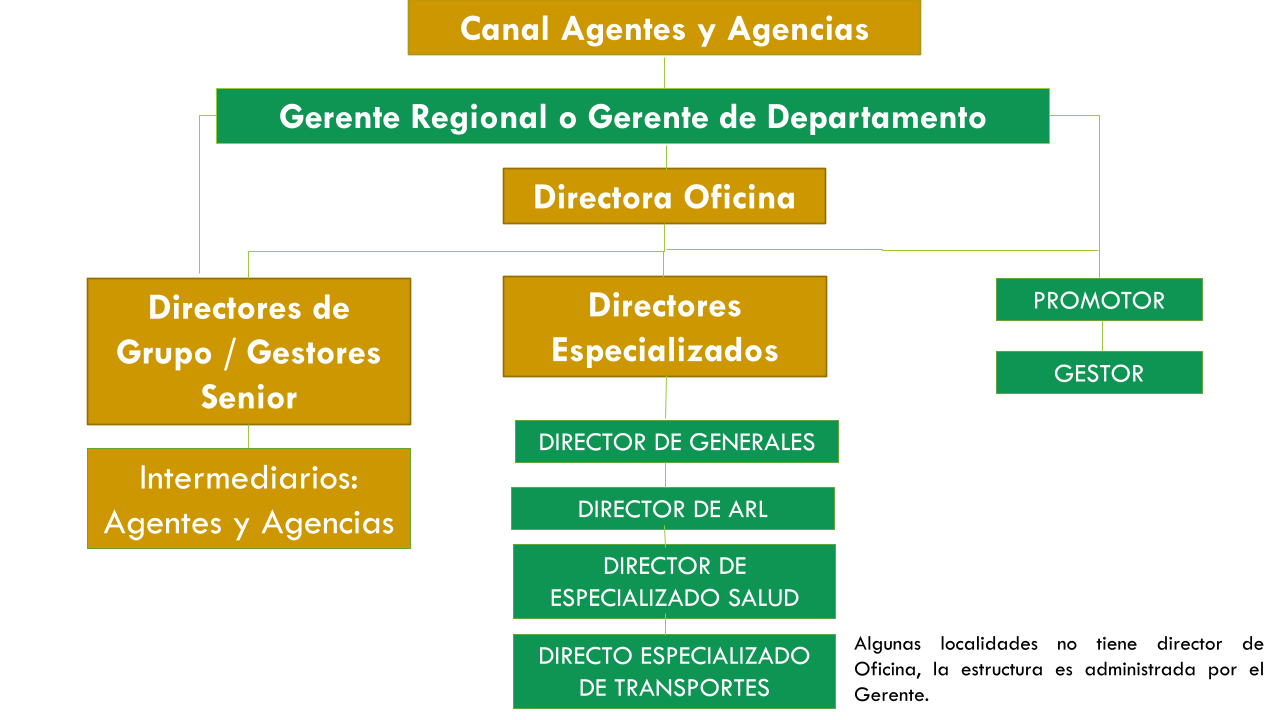
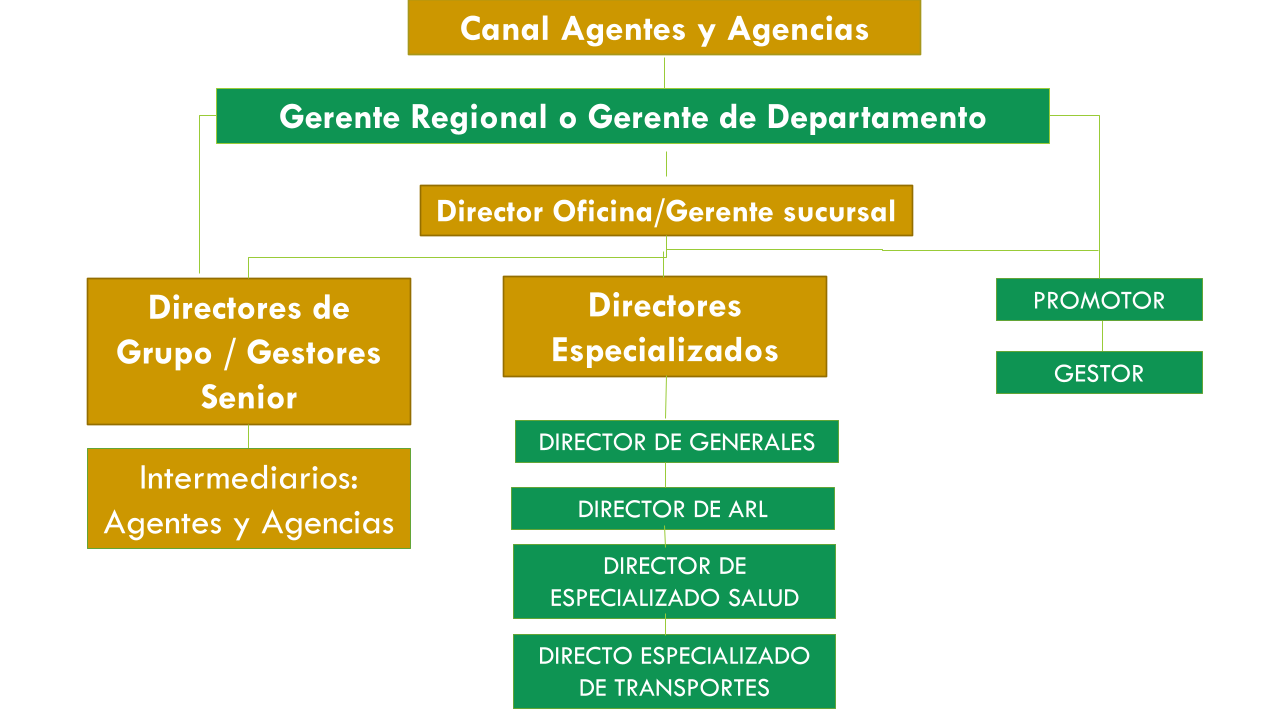
Actualiza estructura y nuevas imagenes

Changed region(s): [[0.3125, 0.2139, 0.7188, 0.3361], [0.6562, 0.8861, 1.0, 0.9778]]

diff --git a/src/components/Navbar.tsx b/src/components/Navbar.tsx
@@ -83,16 +83,16 @@ const searchItems = [
   { label: "Tablero Asesor A&A", type: "route", value: "/aa/tablero", category: "Tableros" },
   { label: "Estrategia Comercial", type: "route", value: "/aa/estrategia", category: "Tableros" },
   { label: "Registro Individual", type: "route", value: "/registro-individual", category: "Navegacion" },
-  { label: "Presentacion", type: "external", value: "https://docs.google.com/presentation/d/1J4sO92Z1T4rY_lnu64jDXRVT2eXG-HpyDZVXt6Xo6_s/edit#slide=id.p1", category: "Compensacion" },
-  { label: "Director Comercial", type: "external", value: "https://docs.google.com/presentation/d/1J4sO92Z1T4rY_lnu64jDXRVT2eXG-HpyDZVXt6Xo6_s/edit?slide=id.g3936da25e3f_0_503#slide=id.g3936da25e3f_0_503", category: "Compensacion" },
-  { label: "Director de Ventas y Relacionamiento", type: "external", value: "https://docs.google.com/presentation/d/1J4sO92Z1T4rY_lnu64jDXRVT2eXG-HpyDZVXt6Xo6_s/edit?slide=id.g3936da25e3f_0_485#slide=id.g3936da25e3f_0_485", category: "Compensacion" },
-  { label: "Asesor de Ventas", type: "external", value: "https://docs.google.com/presentation/d/1J4sO92Z1T4rY_lnu64jDXRVT2eXG-HpyDZVXt6Xo6_s/edit?slide=id.g39366069afe_0_10818#slide=id.g39366069afe_0_10818", category: "Compensacion" },
-  { label: "Relacionistas y Vinculadores", type: "external", value: "https://docs.google.com/presentation/d/1J4sO92Z1T4rY_lnu64jDXRVT2eXG-HpyDZVXt6Xo6_s/edit?slide=id.g3936da25e3f_0_0#slide=id.g3936da25e3f_0_0", category: "Compensacion" },
-  { label: "Convencion Nacional de Ventas", type: "external", value: "https://docs.google.com/presentation/d/1J4sO92Z1T4rY_lnu64jDXRVT2eXG-HpyDZVXt6Xo6_s/edit?slide=id.g3936da25e3f_0_511#slide=id.g3936da25e3f_0_511", category: "Compensacion" },
-  { label: "Compensacion A&A", type: "external", value: "https://docs.google.com/presentation/d/1DMWizD57AQ8RxwahXGy_jGSV_jvcZ8BYaqf8SG5f_TI/edit?slide=id.g396afe731a1_4_0#slide=id.g396afe731a1_4_0", category: "Compensacion" },
-  { label: "Sobre Comisiones Autos", type: "info", value: "#", category: "Compensacion" },
-  { label: "Sobre Comisiones vida", type: "info", value: "#", category: "Compensacion" },
-  { label: "Concurso Nacional de Ventas", type: "external", value: "https://docs.google.com/presentation/d/1DMWizD57AQ8RxwahXGy_jGSV_jvcZ8BYaqf8SG5f_TI/edit?slide=id.g396afe731a1_4_0#slide=id.g396afe731a1_4_0", category: "Compensacion" },
+  { label: "Presentacion", type: "external", value: "https://docs.google.com/presentation/d/1J4sO92Z1T4rY_lnu64jDXRVT2eXG-HpyDZVXt6Xo6_s/edit#slide=id.p1", category: "Compensación" },
+  { label: "Director Comercial", type: "external", value: "https://docs.google.com/presentation/d/1J4sO92Z1T4rY_lnu64jDXRVT2eXG-HpyDZVXt6Xo6_s/edit?slide=id.g3936da25e3f_0_503#slide=id.g3936da25e3f_0_503", category: "Compensación" },
+  { label: "Director de Ventas y Relacionamiento", type: "external", value: "https://docs.google.com/presentation/d/1J4sO92Z1T4rY_lnu64jDXRVT2eXG-HpyDZVXt6Xo6_s/edit?slide=id.g3936da25e3f_0_485#slide=id.g3936da25e3f_0_485", category: "Compensación" },
+  { label: "Asesor de Ventas", type: "external", value: "https://docs.google.com/presentation/d/1J4sO92Z1T4rY_lnu64jDXRVT2eXG-HpyDZVXt6Xo6_s/edit?slide=id.g39366069afe_0_10818#slide=id.g39366069afe_0_10818", category: "Compensación" },
+  { label: "Relacionistas y Vinculadores", type: "external", value: "https://docs.google.com/presentation/d/1J4sO92Z1T4rY_lnu64jDXRVT2eXG-HpyDZVXt6Xo6_s/edit?slide=id.g3936da25e3f_0_0#slide=id.g3936da25e3f_0_0", category: "Compensación" },
+  { label: "Convencion Nacional de Ventas", type: "external", value: "https://docs.google.com/presentation/d/1J4sO92Z1T4rY_lnu64jDXRVT2eXG-HpyDZVXt6Xo6_s/edit?slide=id.g3936da25e3f_0_511#slide=id.g3936da25e3f_0_511", category: "Compensación" },
+  { label: "Compensación A&A", type: "external", value: "https://docs.google.com/presentation/d/1DMWizD57AQ8RxwahXGy_jGSV_jvcZ8BYaqf8SG5f_TI/edit?slide=id.g396afe731a1_4_0#slide=id.g396afe731a1_4_0", category: "Compensación" },
+  { label: "Sobre Comisiones Autos", type: "info", value: "#", category: "Compensación" },
+  { label: "Sobre Comisiones vida", type: "info", value: "#", category: "Compensación" },
+  { label: "Concurso Nacional de Ventas", type: "external", value: "https://docs.google.com/presentation/d/1DMWizD57AQ8RxwahXGy_jGSV_jvcZ8BYaqf8SG5f_TI/edit?slide=id.g396afe731a1_4_0#slide=id.g396afe731a1_4_0", category: "Compensación" },
   { label: "Que es Power BI", type: "route", value: "/aprendamos-powerbi", category: "Aprendamos Power BI" },
   { label: "Como solicitar acceso", type: "route", value: "/aprendamos-powerbi", category: "Aprendamos Power BI" },
   { label: "Tips de navegacion", type: "route", value: "/aprendamos-powerbi", category: "Aprendamos Power BI" },
@@ -340,7 +340,7 @@ const Navbar = () => {
                     </h4>
 
                     <p className="mt-2 text-xs leading-relaxed text-gray-600">
-                      Sistema que permite consultar las polizas activas y canceladas de Seguros Bolivar.
+                      Sistema que permite consultar las pólizas activas y canceladas de Seguros Bolívar.
                     </p>
 
                     <div className="mt-4 flex items-center gap-1 text-xs font-medium text-blue-600">
@@ -364,7 +364,7 @@ const Navbar = () => {
                     </h4>
 
                     <p className="mt-2 text-xs leading-relaxed text-gray-600">
-                      Catalogo de Servicios de TI de Seguros Bolivar para el reporte de incidencias tecnologicas.
+                      Catálogo de Servicios de TI de Seguros Bolívar para el reporte de incidencias tecnológicas.
                     </p>
 
                     <div className="mt-4 flex items-center gap-1 text-xs font-medium text-blue-600">
@@ -387,7 +387,7 @@ const Navbar = () => {
                     </h4>
 
                     <p className="mt-2 text-xs leading-relaxed text-gray-600">
-                      Una intranet de empresa es una red privada y digital, segura y de uso exclusivo para empleados, que funciona como un espacio de trabajo centralizado para compartir informacion.
+                     Una intranet de empresa es una red privada y digital, segura y de uso exclusivo para empleados, que funciona como un espacio de trabajo centralizado para compartir información.
                     </p>
 
                     <div className="mt-4 flex items-center gap-1 text-xs font-medium text-blue-600">
@@ -411,7 +411,7 @@ const Navbar = () => {
                     </h4>
 
                     <p className="mt-2 text-xs leading-relaxed text-gray-600">
-                      Sistema de administracion y mitigacion efectiva del riesgo asociado a los procesos y el riesgo legal, apoyando el cumplimiento de los objetivos misionales y evitando perdidas asociadas a los factores de riesgo operacional, internos y externos.
+                      Sistema de administración y mitigación efectiva del riesgo asociado a los procesos y el riesgo legal, apoyando el cumplimiento de los objetivos misionales y evitando pérdidas asociadas a los factores de riesgo operacional, internos y externos.
                     </p>
 
                     <div className="mt-4 flex items-center gap-1 text-xs font-medium text-blue-600">
@@ -424,7 +424,7 @@ const Navbar = () => {
                     </h4>
 
                     <p className="mt-2 text-xs leading-relaxed text-gray-600">
-                      Sistema de informacion de Seguros Bolivar, que permite cotizar y emitir las polizas de los clientes.
+                      Sistema de información de Seguros Bolívar, que permite cotizar y emitir las pólizas de los clientes.
                     </p>
 
                     <div className="mt-4 flex flex-col gap-2">
@@ -476,7 +476,7 @@ const Navbar = () => {
                   <div className="border-l-2 border-gray-100 pl-4 hover:border-yellow-400 transition-colors">
                     <h4 className="text-gray-900">Compras</h4>
                     <p className="mt-1 text-xs text-gray-600">
-                      Pagina web donde se encuentra todo lo relacionado con documentos publicos, politicas de compras, procedimientos en herramientas como Coupa y CAI, reglamentos a proveedores y mas.
+                      Página web donde se encuentra todo lo relacionado con documentos públicos, políticas de compras, procedimientos en herramientas como Coupa y CAI, reglamentos a proveedores y más.
                     </p>
                     <a
                       href="https://sites.google.com/segurosbolivar.com/sitecompras/inicio/e-procurement-coupa?authuser=0"
@@ -516,7 +516,7 @@ const Navbar = () => {
                             <ExternalLink size={12} />
                           </span>
                           <span className="mt-1 block text-[11px] text-gray-600">
-                            Validacion de facturas, comprobantes de pago, gastos y presupuesto por centro de costos.
+                            Validación de facturas, comprobantes de pago, gastos y presupuesto por centro de costos.
                           </span>
                         </a>
 
@@ -531,7 +531,7 @@ const Navbar = () => {
                             <ExternalLink size={12} />
                           </span>
                           <span className="mt-1 block text-[11px] text-gray-600">
-                            Plataforma habilitada para incentivos de Tecnicos correspondiente al CNV.
+                            Plataforma habilitada para incentivos de técnicos correspondiente al CNV.
                           </span>
                         </a>
 
@@ -546,7 +546,7 @@ const Navbar = () => {
                             <ExternalLink size={12} />
                           </span>
                           <span className="mt-1 block text-[11px] text-gray-600">
-                            Solicitudes, recepcion y consulta de ordenes de compra.
+                            Solicitudes, recepción y consulta de órdenes de compra.
                           </span>
                         </a>
 
@@ -672,7 +672,7 @@ const Navbar = () => {
               }}
               className={`${desktopNavClass(bonificacionesOpen)} flex items-center gap-1`}
             >
-              Compensacion
+              Compensación
               <ChevronDown
                 className={`h-4 w-4 transition-transform duration-200 ${bonificacionesOpen ? "rotate-10" : ""
                   }`}
@@ -1031,7 +1031,7 @@ const Navbar = () => {
                 onClick={() => setMobileCompensacionOpen(!mobileCompensacionOpen)}
                 className="flex w-full items-center justify-between rounded-xl px-4 py-3 text-left text-sm font-medium text-[#2D8B3A] transition hover:bg-green-50"
               >
-                Compensacion
+                Compensación
                 <ChevronDown
                   className={`h-4 w-4 transition-transform duration-200 ${mobileCompensacionOpen ? "rotate-180" : ""}`}
                 />

diff --git a/src/components/HeroSection.tsx b/src/components/HeroSection.tsx
@@ -1,5 +1,6 @@
 import logo from "../assets/Logo.png";
-import img from "../assets/img.jpeg.png";
+import tablerosConsultaImg from "../assets/tableros-consulta.jpeg";
+import reportesImg from "../assets/reportes.jpeg";
 import { useEffect, useState } from "react";
 import { ChevronDown, ChevronLeft, ChevronRight } from "lucide-react";
 import { AnimatePresence, motion } from "framer-motion";
@@ -19,17 +20,17 @@ const slides = [
     id: 1,
     image:
       "https://images.unsplash.com/photo-1518091043644-c1d4457512c6?auto=format&fit=crop&w=2070&q=80",
-    imageClassName: "",
-    title: "Bienvenido al Centro de Inteligencia Presenciales",
+    imageClassName: "object-cover object-center",
+    title: "Bienvenido al site de Canales Presenciales",
     description:
       "Un acceso más claro a información, tableros, reportes y recursos de la Vicepresidencia de Canales Presenciales.",
-    buttonText: "Comenzar",
+    
     buttonLink: "#herramientas",
   },
   {
     id: 2,
-    image: "/tableros.jpeg",
-    imageClassName: "object-contain scale-85",
+    image: tablerosConsultaImg,
+    imageClassName: "object-cover object-center",
     title: "Tableros de consulta",
     description:
       "Accede a dashboards estratégicos con métricas clave para la toma de decisiones comerciales.",
@@ -86,7 +87,8 @@ const slides = [
   },
   {
     id: 3,
-    image: img,
+    image: reportesImg,
+    imageClassName: "object-cover object-center",
     title: "Reportes",
     description:
       "Diligencia los formularios de reporte segun tu canal.",
@@ -184,7 +186,7 @@ const HeroSection = () => {
               transition={{ duration: 0.55 }}
               className="overflow-hidden rounded-[28px] border border-[#0b7d45] shadow-[0_18px_42px_-30px_rgba(0,0,0,0.45)]"
             >
-              <div className="grid min-h-[420px] grid-cols-1 lg:grid-cols-2">
+              <div className="grid min-h-[420px] grid-cols-1 lg:grid-cols-[1.05fr_0.95fr]">
                 <div className="flex flex-col justify-center bg-[#008f52] px-7 py-10 text-white sm:px-10 lg:px-12">
                   <p className="mb-4 text-xs font-semibold uppercase tracking-[0.22em] text-[#ffe48d]">
                     Vicepresidencia Canales Presenciales
@@ -197,20 +199,20 @@ const HeroSection = () => {
                     {slides[current].description}
                   </p>
 
-                  {slides[current].buttonText &&
+                  {slides[current].buttonLink &&
                     (slides[current].buttonLink.startsWith("/") ? (
                       <Link
                         to={slides[current].buttonLink}
                         className="mt-8 inline-flex w-fit rounded-full bg-[#ffe066] px-6 py-3 text-sm font-bold text-[#166534] transition hover:brightness-95"
                       >
-                        {slides[current].buttonText}
+                        
                       </Link>
                     ) : (
                       <a
                         href={slides[current].buttonLink}
-                        className="mt-8 inline-flex w-fit rounded-full bg-[#ffe066] px-6 py-3 text-sm font-bold text-[#166534] transition hover:brightness-95"
+                        
                       >
-                        {slides[current].buttonText}
+                        
                       </a>
                     ))}
 
@@ -289,7 +291,7 @@ const HeroSection = () => {
                   )}
                 </div>
 
-                <div className="relative min-h-[260px] lg:min-h-full">
+                <div className="relative min-h-[200px] lg:min-h-full">
                   <img
                     src={slides[current].image}
                     alt={slides[current].title}

diff --git a/src/components/Estructura.jsx b/src/components/Estructura.jsx
@@ -208,7 +208,7 @@ function Estructura() {
                 Donde reportar: <span style={styles.reportBadge}>Formulario oficial</span>
               </p>
               <a
-                href="https://forms.gle/8gCPHzqZD9whWNfB8"
+                href="https://docs.google.com/forms/d/e/1FAIpQLSeDIwUWvJRPv3PHj-6Ajir7e5knH0JCmkh8m2VyU7F6zXsIsg/viewform"
                 target="_blank"
                 rel="noreferrer"
                 style={styles.reportButton}

diff --git a/src/pages/AprendamosPowerBI.jsx b/src/pages/AprendamosPowerBI.jsx
@@ -712,7 +712,7 @@ const AprendamosPowerBI = () => {
               </div>
 
               <div id="detalle-polizás" style={{ marginBottom: 20 }}>
-                <p style={{ ...styles.p, fontWeight: 'bold', marginBottom: 8 }}>5, 6 y 7. Detalle Pólizas NN / RE_CAN / GR'S:</p>
+                <p style={{ ...styles.p, fontWeight: 'bold', marginBottom: 8 }}> Detalle Pólizas NN / RE_CAN / GR'S:</p>
                 <p style={styles.p}>Auditoría y revisión línea a línea. Estas páginas son tablas granulares que muestran el Número de Póliza, Nombre del Cliente, Asesor, Clave, y Prima.</p>
               </div>
 